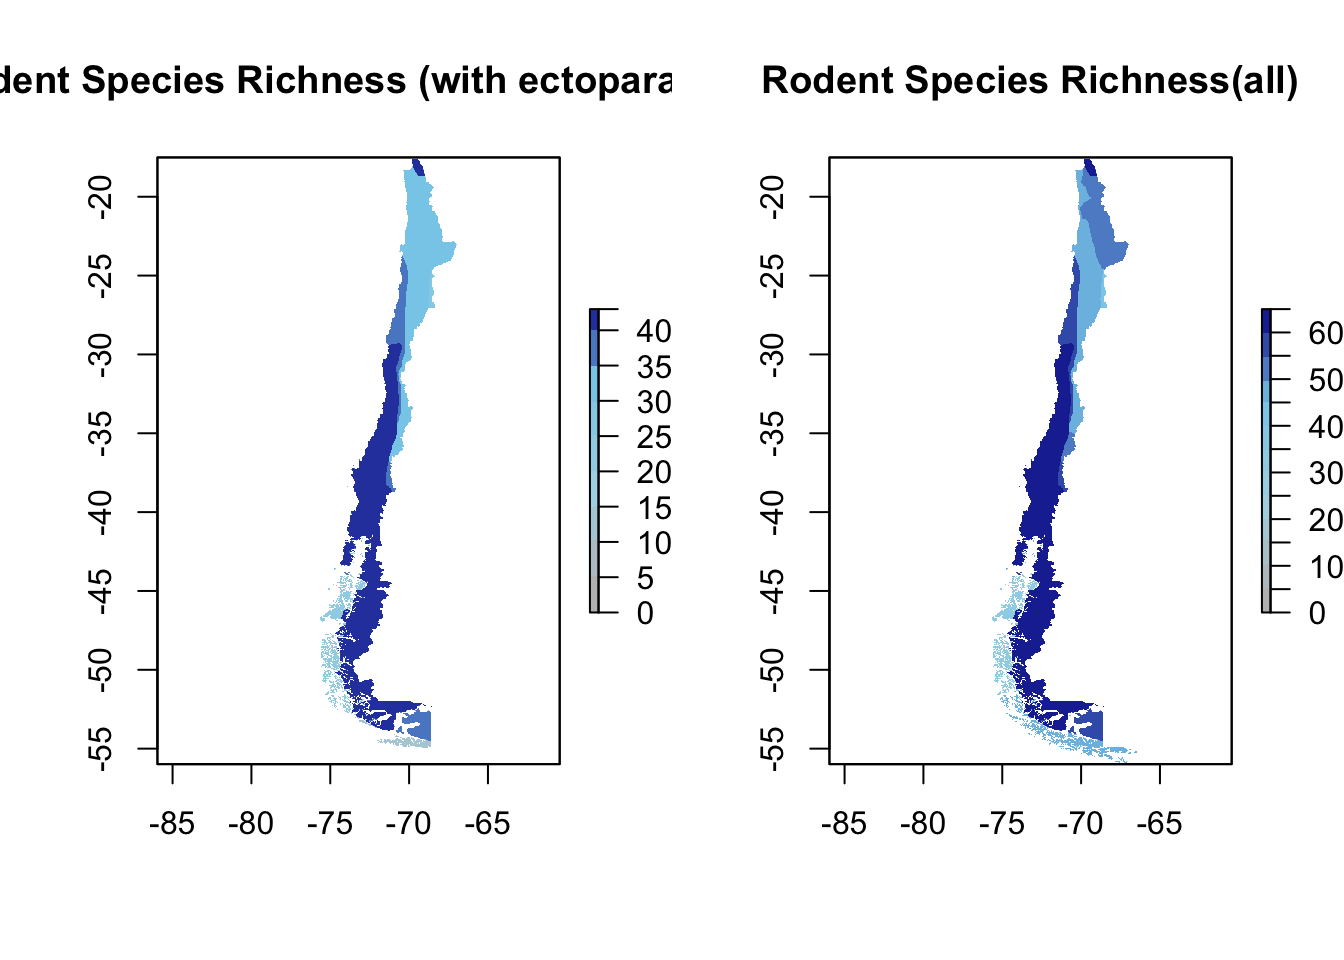
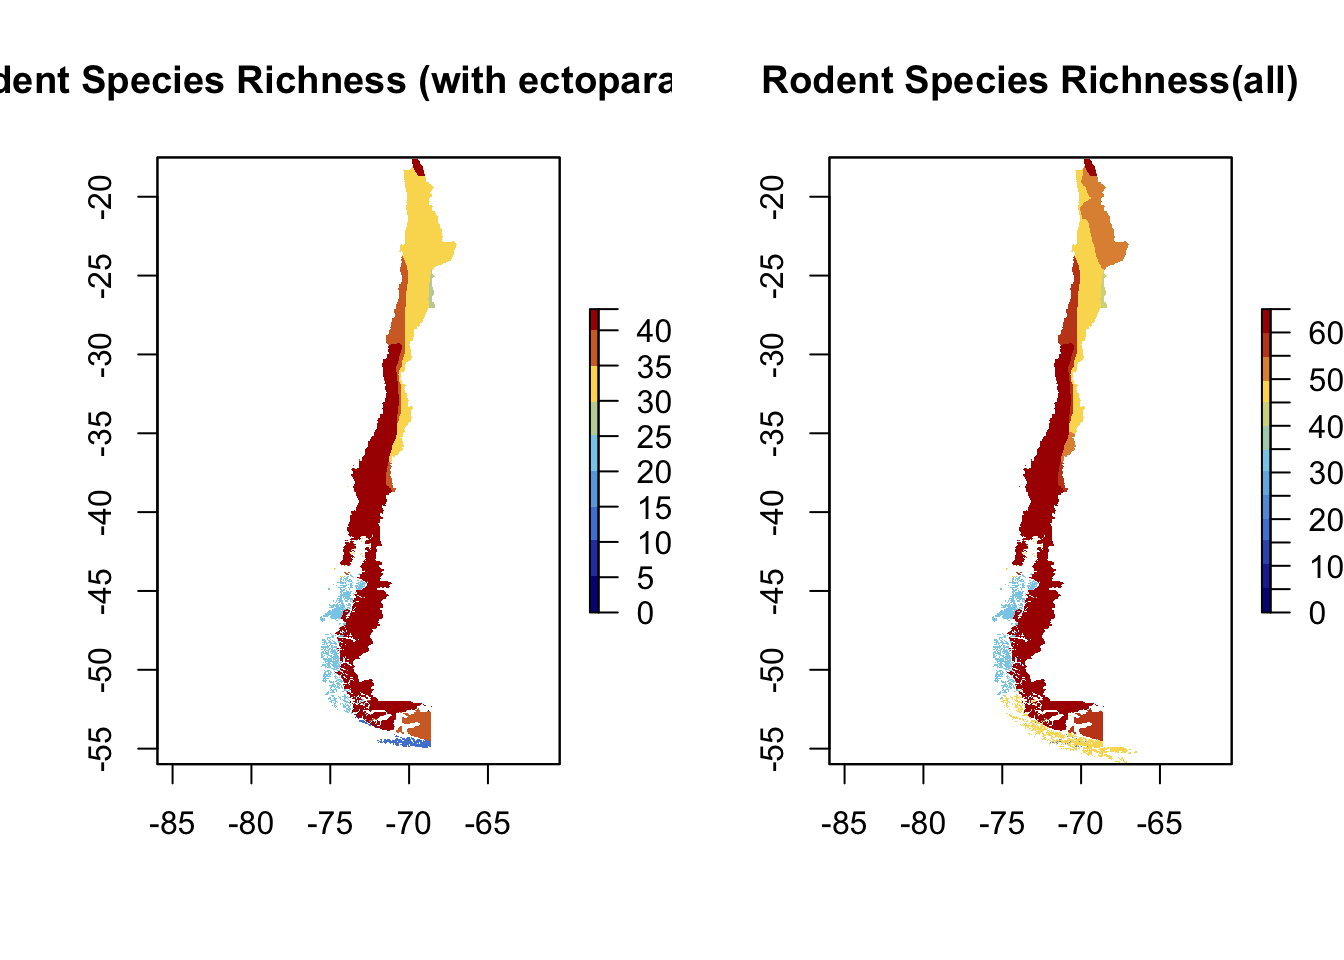
Add files via upload

diff --git a/Maps.html b/Maps.html
@@ -297,7 +297,7 @@ do not have ectoparasites are being excluded and named
 “ectorodents”.</p>
 <pre class="r"><code>rodrange &lt;- read_sf(&quot;./ChileRodentsClipped/mergedChile.shp&quot;, stringsAsFactors = F)
 
-ectorodents &lt;- subset(rodrange, SCI_NAME !=&quot;Akodon iniscatus&quot; &amp; SCI_NAME != &quot;Abrothrix jelskii&quot; 
+ectorodents &lt;- subset(rodrange, SCI_NAME !=&quot;Akodon iniscatus&quot; &amp; SCI_NAME != &quot;Abrothrix jelskii&quot;
                   &amp; SCI_NAME !=&quot;Auliscomys pictus&quot; &amp; SCI_NAME != &quot;Calomys lepidus&quot; 
                   &amp; SCI_NAME !=&quot;Cavia tschudii&quot; &amp; SCI_NAME != &quot;Chelemys megalonyx&quot; 
                   &amp; SCI_NAME !=&quot;Chinchilla chinchilla&quot; &amp; SCI_NAME != &quot;Chinchilla lanigera&quot;
@@ -324,14 +324,14 @@ poly3&lt;-rodrange #all rodents same steps
 rp_rod3&lt;-rasterize(poly3,r)
 chil_map&lt;-mask(rp_rod3, chile)</code></pre>
 <p>Now time to make the maps!</p>
-<pre class="r"><code>color&lt;-colorRampPalette(c(&quot;gray&quot;,&quot;lightblue&quot;,&quot;skyblue&quot;, &quot;darkblue&quot;)) #make a color ramp
+<pre class="r"><code>color&lt;-colorRampPalette(c(&quot;#090387ff&quot;,&quot;#5084d6bb&quot;,&quot;skyblue&quot;,&quot;#fada5fff&quot;, &quot;#aa0000&quot;)) #make a color ramp
 
 par(mfrow=c(1,2)) #split panel into 2
 
-plot(chil_map_ecto, col=color(10), breaks=c(0,5,10,15,20,25,30,35,40,43)
+plot(chil_map_ecto, col=color(9), breaks=c(0,5,10,15,20,25,30,35,40,43)
      ,ext=c(-80, -65, -60, 30), main=&quot;Rodent Species Richness (with ectoparasites)&quot; ) #only with ectoparasites
 
-plot(chil_map, col=color(14), breaks=c(0,5,10,15,20,25,30,35,40,45,50,55,60,65)
+plot(chil_map, col=color(13), breaks=c(0,5,10,15,20,25,30,35,40,45,50,55,60,65)
      ,ext=c(-80, -65, -60, 30), main=&quot;Rodent Species Richness(all)&quot; ) #all rodents</code></pre>
 <p><img src="Maps_files/figure-html/unnamed-chunk-4-1.png" width="672" /></p>
 <p>The next step is to calculate pairwise range overlap between rodent
